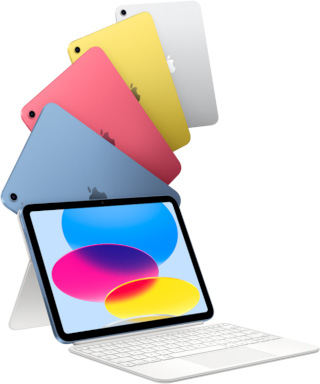
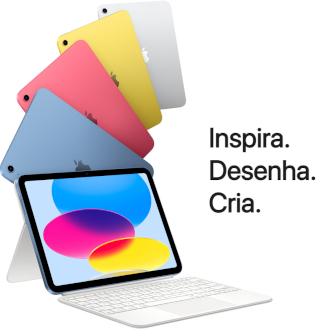
att

diff --git a/html/index.html b/html/index.html
@@ -20,16 +20,13 @@
     <main>
         <h1>iPad</h1>
             <picture>
-                <source media="(max-width:700px )" srcset="..\imagens\ipad-pq.jpg" type="image/jpg">
-                <img src="../imagens/ipad.jpg" alt="iPad">
+                <source media="(max-width:800px )" srcset="..\imagens\ipad-pq.jpg" type="image/jpg">
+                <img src="../imagens/teste-png.png" alt="iPad">
             </picture>
 
         <div id="container">
             <div id="content">
-                <p>Inspira.</p>
-                <p>Desenha.</p>
-                <p>Cria.</p>
-            </div>
+            
         </div>
 
         <section>

diff --git a/css/style.css b/css/style.css
@@ -61,7 +61,7 @@ main > h1 {
 main img {
     display: block;
     margin-left: auto;
-    margin-right: 800px;
+    margin-right: auto;
     padding-bottom: 50px;
 }
 
